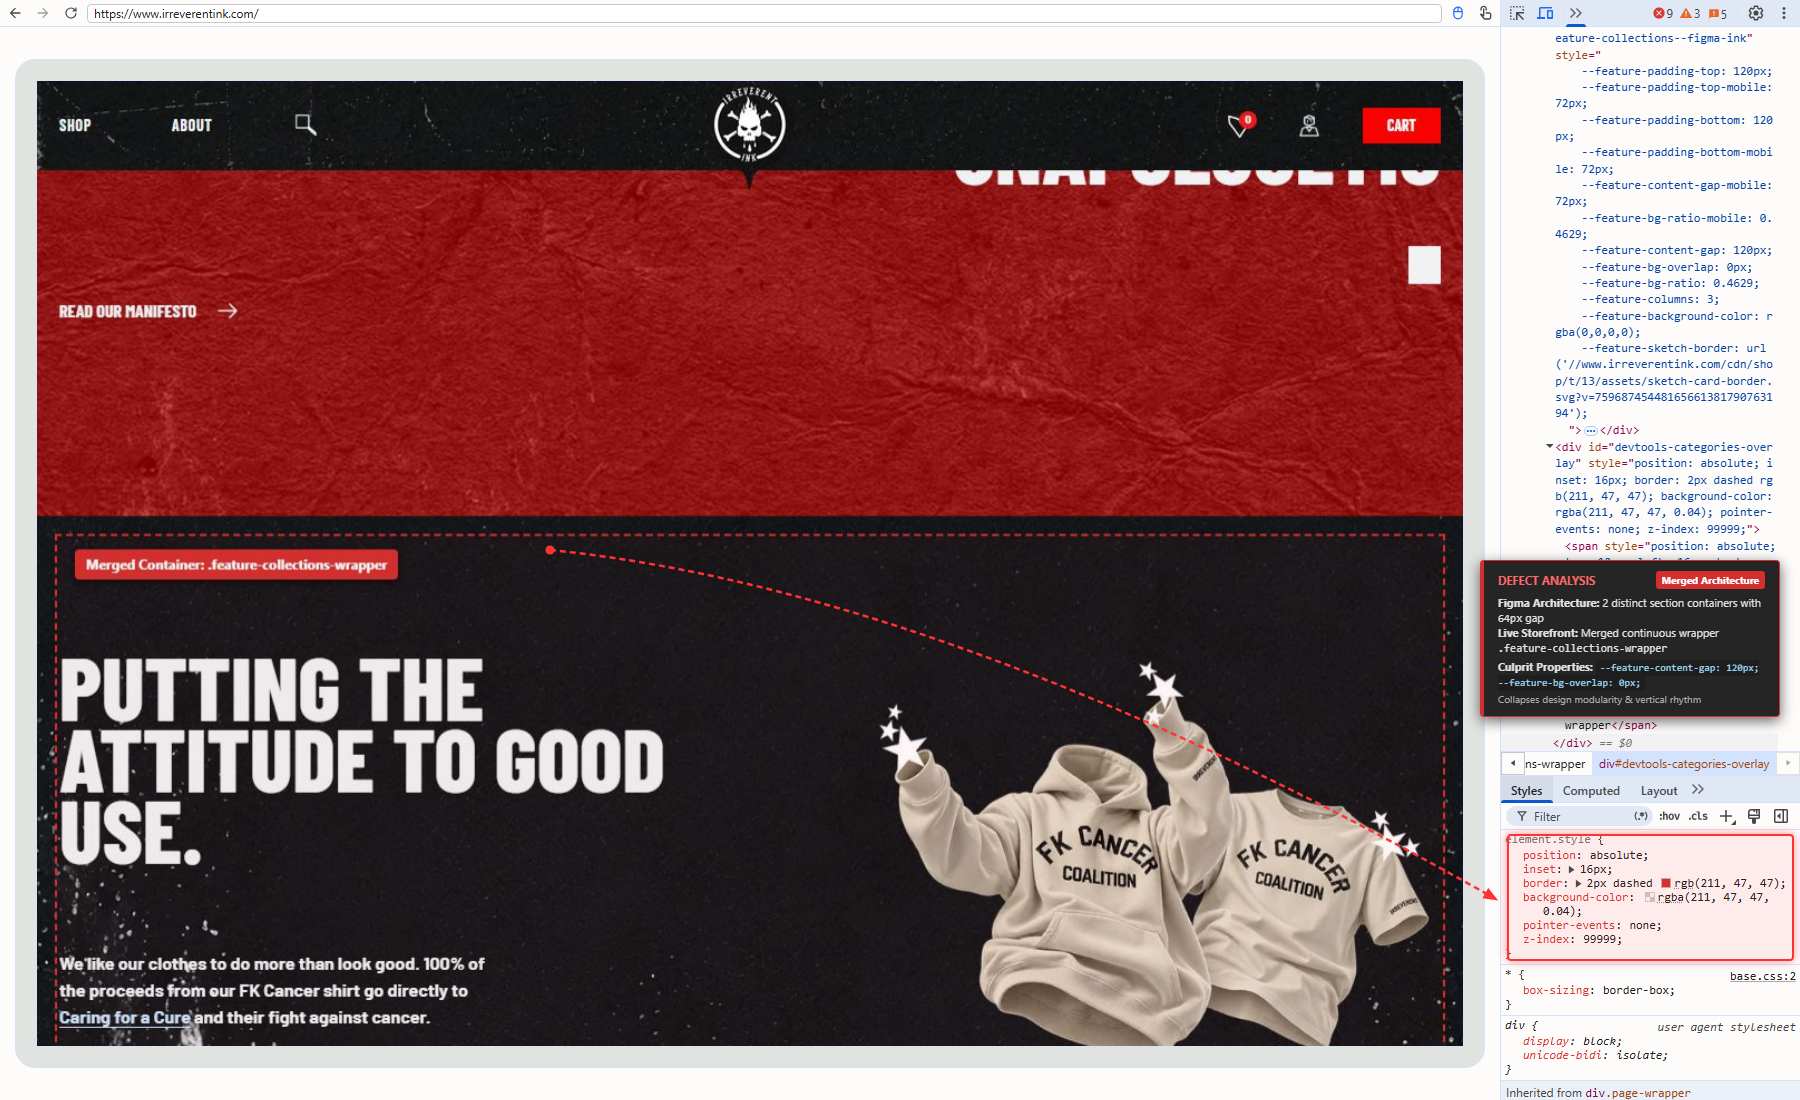
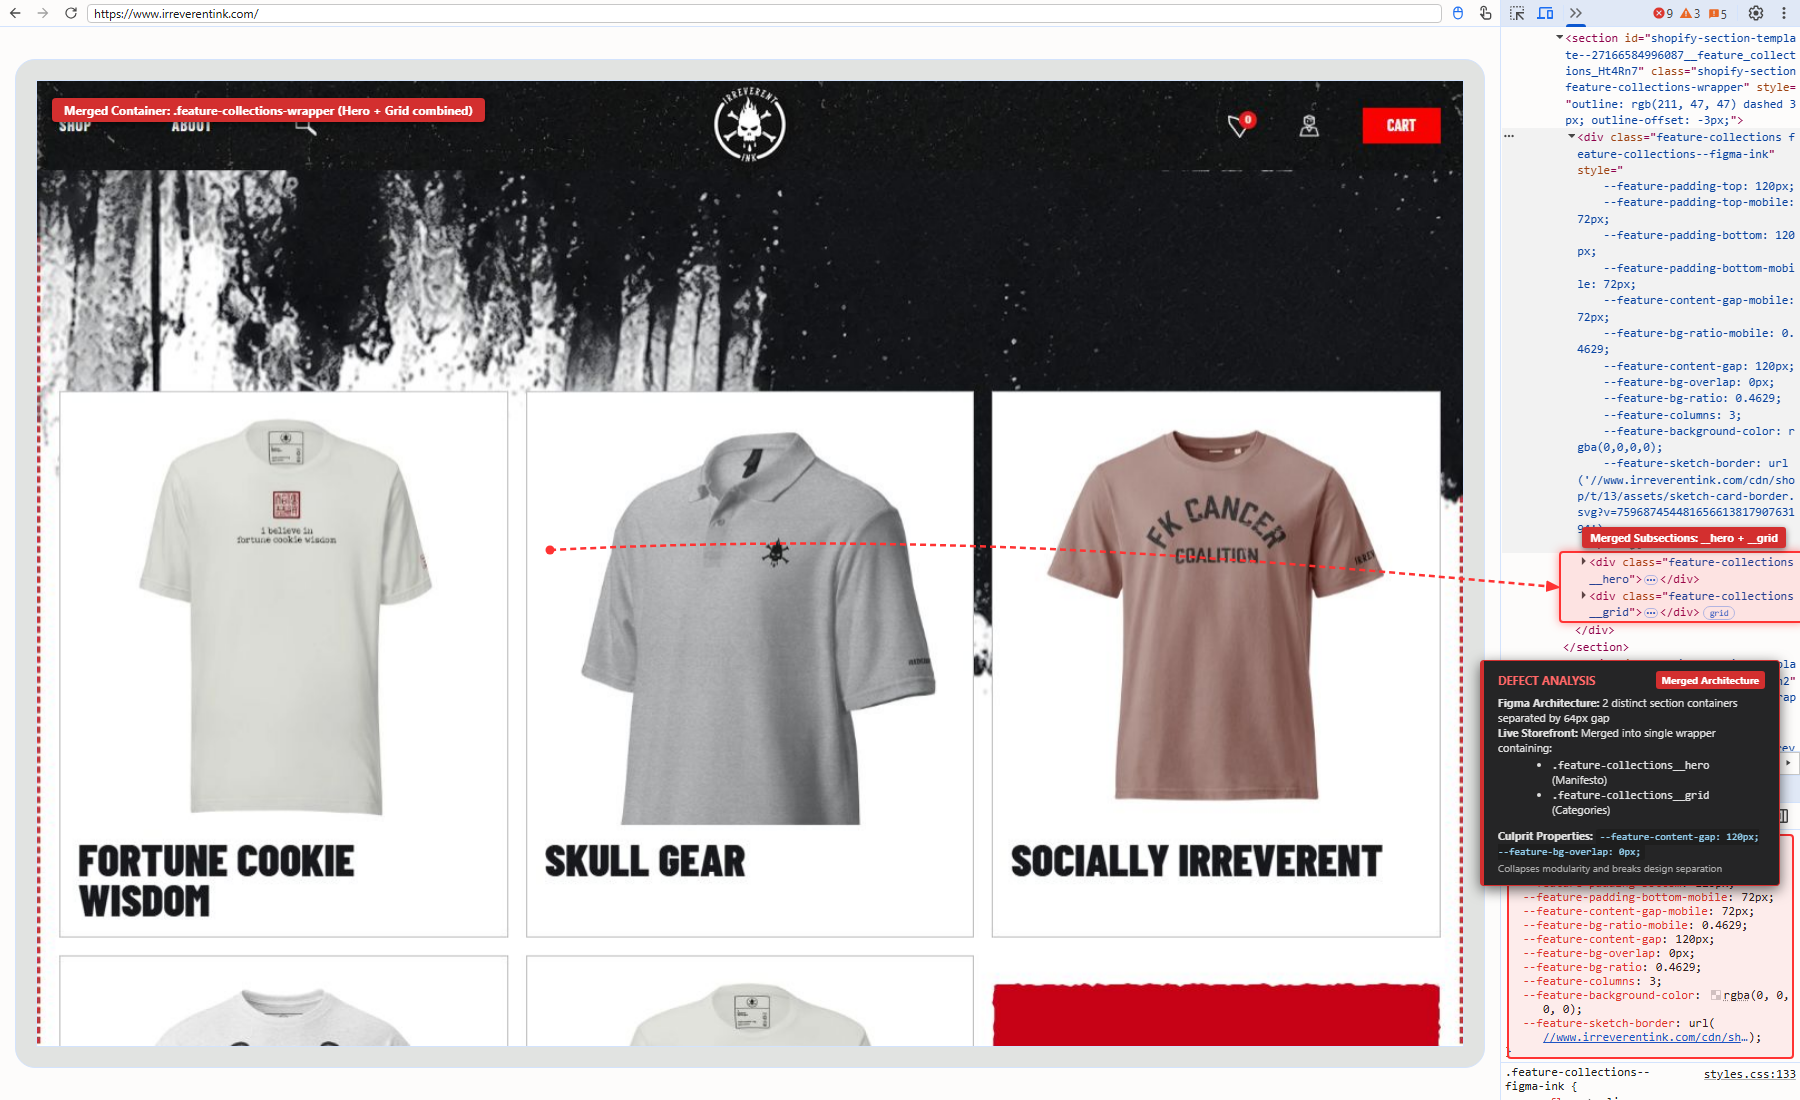
fix(qa-evidence): expand feature-collections__hero and feature-collections__grid subsections in real DevTools DOM tree for Defect 2

diff --git a/scripts/capture-real-chrome-native-devtools.js b/scripts/capture-real-chrome-native-devtools.js
@@ -25,11 +25,22 @@ async function captureAuthenticRealDevToolsDefects() {
   await page.goto('https://www.irreverentink.com/?preview_theme_id=181104476407', { waitUntil: 'domcontentloaded' });
   await page.waitForTimeout(4000);
 
-  // Suppress popups
+  // Suppress popups persistently
   await page.evaluate(() => {
     const s = document.createElement('style');
     s.id = 'suppress-popups';
-    s.innerHTML = '#shopify-pc__banner, .shopify-pc__banner__dialog, #PBarNextFrameWrapper, #preview-bar-iframe { display: none !important; }';
+    s.innerHTML = `
+      #shopify-pc__banner,
+      .shopify-pc__banner__dialog,
+      #PBarNextFrameWrapper,
+      #preview-bar-iframe,
+      .shopify-preview-bar,
+      [aria-label*="cookie" i],
+      [class*="cookie" i] {
+        display: none !important;
+        visibility: hidden !important;
+      }
+    `;
     document.head.appendChild(s);
   });
 
@@ -187,7 +198,7 @@ async function captureAuthenticRealDevToolsDefects() {
     redBox.style.boxShadow = '0 0 10px rgba(255, 51, 51, 0.6)';
     overlay.appendChild(redBox);
 
-    // 2. Comprehensive Root Cause Defect Card (placed cleanly at left edge of DevTools pane, clear of DOM tree)
+    // 2. Comprehensive Root Cause Defect Card
     const defectCard = document.createElement('div');
     defectCard.style.position = 'absolute';
     defectCard.style.left = '1480px';
@@ -202,7 +213,7 @@ async function captureAuthenticRealDevToolsDefects() {
     defectCard.style.fontFamily = '-apple-system, BlinkMacSystemFont, "Segoe UI", Roboto, sans-serif';
     defectCard.style.color = '#e0e0e0';
     defectCard.style.fontSize = '11px';
-    defectCard.style.lineHeight = '1.5';
+    defectCard.lineHeight = '1.5';
 
     defectCard.innerHTML = `
       <div style="display:flex; justify-content:space-between; align-items:center; margin-bottom:6px; font-weight:700; color:#ff6666;">
@@ -241,9 +252,9 @@ async function captureAuthenticRealDevToolsDefects() {
 
   // =========================================================================
   // DEFECT 2: CATEGORIES SECTION ARCHITECTURE MERGE / STYLES VIEW
-  // View: REAL DEVTOOLS STYLES TAB + PREVIEW ARCHITECTURE HIGHLIGHT + ROOT CAUSE CARD
+  // View: REAL DEVTOOLS WITH BOTH HERO & GRID SUBSECTIONS EXPANDED IN DOM TREE
   // =========================================================================
-  console.log('\n--- Capturing Defect 2: Categories with Real DevTools Styles Tab & Root Cause Card ---');
+  console.log('\n--- Capturing Defect 2: Categories with Expanded Subsections in DOM Tree & Styles Tab ---');
 
   // Remove Defect 1 overlay
   await dtPage.evaluate(() => {
@@ -251,7 +262,7 @@ async function captureAuthenticRealDevToolsDefects() {
     if (ov) ov.remove();
   });
 
-  // Scroll live page to categories section and inject clean container boundary highlight on preview
+  // Scroll live page to categories section and highlight outline without injecting DOM children
   await page.evaluate(() => {
     const existingPad = document.getElementById('devtools-padding-overlay');
     if (existingPad) existingPad.remove();
@@ -259,39 +270,8 @@ async function captureAuthenticRealDevToolsDefects() {
     const feat = document.querySelector('section.feature-collections-wrapper');
     if (feat) {
       feat.scrollIntoView({ behavior: 'instant', block: 'center' });
-
-      const existing = document.getElementById('devtools-categories-overlay');
-      if (existing) existing.remove();
-
-      const overlay = document.createElement('div');
-      overlay.id = 'devtools-categories-overlay';
-      overlay.style.position = 'absolute';
-      overlay.style.left = '16px';
-      overlay.style.top = '16px';
-      overlay.style.right = '16px';
-      overlay.style.bottom = '16px';
-      overlay.style.border = '2px dashed #d32f2f';
-      overlay.style.backgroundColor = 'rgba(211, 47, 47, 0.04)';
-      overlay.style.pointerEvents = 'none';
-      overlay.style.zIndex = '99999';
-
-      const tag = document.createElement('span');
-      tag.style.position = 'absolute';
-      tag.style.top = '12px';
-      tag.style.left = '16px';
-      tag.style.background = '#d32f2f';
-      tag.style.color = '#ffffff';
-      tag.style.fontFamily = '-apple-system, BlinkMacSystemFont, "Segoe UI", Roboto, sans-serif';
-      tag.style.fontSize = '12px';
-      tag.style.fontWeight = 'bold';
-      tag.style.padding = '4px 10px';
-      tag.style.borderRadius = '4px';
-      tag.style.boxShadow = '0 2px 4px rgba(0,0,0,0.5)';
-      tag.innerText = 'Merged Container: .feature-collections-wrapper';
-      overlay.appendChild(tag);
-
-      feat.style.position = 'relative';
-      feat.appendChild(overlay);
+      feat.style.outline = '3px dashed #d32f2f';
+      feat.style.outlineOffset = '-3px';
     }
   });
   await dtPage.waitForTimeout(1000);
@@ -309,7 +289,13 @@ async function captureAuthenticRealDevToolsDefects() {
   await dtPage.keyboard.press('ArrowRight');
   await dtPage.waitForTimeout(500);
   await dtPage.keyboard.press('ArrowDown');
-  await dtPage.waitForTimeout(600);
+  await dtPage.waitForTimeout(500);
+
+  // EXPAND <div class="feature-collections..."> TO REVEAL BOTH SUBSECTIONS:
+  // 1. <div class="feature-collections__hero">
+  // 2. <div class="feature-collections__grid">
+  await dtPage.keyboard.press('ArrowRight');
+  await dtPage.waitForTimeout(1000);
 
   // Click Styles Tab via mouse
   const stylesTabCoords = await dtPage.evaluate(() => {
@@ -334,7 +320,9 @@ async function captureAuthenticRealDevToolsDefects() {
   }
   await dtPage.waitForTimeout(2000);
 
-  // Dynamically find coordinates of element.style rules block in DevTools Styles Pane
+  // Dynamically find coordinates for:
+  // 1. The two subsections in the Elements DOM tree (hero & grid)
+  // 2. The element.style block in the Styles Pane
   const defect2Coords = await dtPage.evaluate(() => {
     function queryDeep(root, selector) {
       let matches = Array.from(root.querySelectorAll(selector));
@@ -344,12 +332,22 @@ async function captureAuthenticRealDevToolsDefects() {
       }
       return matches;
     }
+    const nodes = queryDeep(document, '.elements-tree-outline li');
+    const heroNode = nodes.find(n => n.innerText && n.innerText.includes('feature-collections__hero'));
+    const gridNode = nodes.find(n => n.innerText && n.innerText.includes('feature-collections__grid'));
+
     const blocks = queryDeep(document, '.matched-styles .style-pane-wrapper, .styles-section');
     const elStyleBlock = blocks.find(b => b.innerText && b.innerText.includes('element.style'));
-    return { elStyleRect: elStyleBlock ? elStyleBlock.getBoundingClientRect() : null };
-  });
 
-  // Inject QA Defect Card and Arrow for Defect 2
+    return {
+      heroRect: heroNode ? heroNode.getBoundingClientRect() : null,
+      gridRect: gridNode ? gridNode.getBoundingClientRect() : null,
+      elStyleRect: elStyleBlock ? elStyleBlock.getBoundingClientRect() : null
+    };
+  });
+  console.log('Defect 2 Clean DOM Tree and Styles Coords:', defect2Coords);
+
+  // Inject QA Callouts: Highlighting BOTH Hero & Grid in the DOM tree, Styles Pane, and Defect Card
   await dtPage.evaluate((coords) => {
     const existing = document.getElementById('qa-defect-overlay');
     if (existing) existing.remove();
@@ -364,26 +362,72 @@ async function captureAuthenticRealDevToolsDefects() {
     overlay.style.pointerEvents = 'none';
     overlay.style.zIndex = '99999999';
 
-    const sRect = (coords && coords.elStyleRect) ? coords.elStyleRect : { x: 1501, y: 830, width: 299, height: 233 };
+    // 1. Preview Screencast Tag
+    const previewTag = document.createElement('div');
+    previewTag.style.position = 'absolute';
+    previewTag.style.left = '52px';
+    previewTag.style.top = '98px';
+    previewTag.style.background = '#d32f2f';
+    previewTag.style.color = '#ffffff';
+    previewTag.style.fontFamily = '-apple-system, BlinkMacSystemFont, "Segoe UI", Roboto, sans-serif';
+    previewTag.style.fontSize = '12px';
+    previewTag.style.fontWeight = 'bold';
+    previewTag.style.padding = '4px 12px';
+    previewTag.style.borderRadius = '4px';
+    previewTag.style.boxShadow = '0 2px 6px rgba(0,0,0,0.5)';
+    previewTag.innerText = 'Merged Container: .feature-collections-wrapper (Hero + Grid combined)';
+    overlay.appendChild(previewTag);
 
-    // 1. Red highlight around live theme element style variables / gap & architecture
+    // 2. Highlight BOTH Subsections in the Real DevTools Elements Tree
+    const hRect = (coords && coords.heroRect) ? coords.heroRect : { x: 1563, y: 555, width: 237, height: 34 };
+    const gRect = (coords && coords.gridRect) ? coords.gridRect : { x: 1563, y: 588, width: 237, height: 34 };
+
+    const treeHighlight = document.createElement('div');
+    treeHighlight.style.position = 'absolute';
+    treeHighlight.style.left = `${Math.min(hRect.x, gRect.x) - 4}px`;
+    treeHighlight.style.top = `${hRect.y - 2}px`;
+    treeHighlight.style.width = `${Math.max(hRect.width, gRect.width) + 8}px`;
+    treeHighlight.style.height = `${(gRect.y + gRect.height) - hRect.y + 4}px`;
+    treeHighlight.style.border = '2px solid #ff3333';
+    treeHighlight.style.borderRadius = '4px';
+    treeHighlight.style.backgroundColor = 'rgba(255, 51, 51, 0.12)';
+    treeHighlight.style.boxShadow = '0 0 10px rgba(255, 51, 51, 0.5)';
+    overlay.appendChild(treeHighlight);
+
+    // Callout label next to the tree highlight
+    const treeLabel = document.createElement('div');
+    treeLabel.style.position = 'absolute';
+    treeLabel.style.right = '14px';
+    treeLabel.style.top = `${hRect.y - 26}px`;
+    treeLabel.style.background = '#d32f2f';
+    treeLabel.style.color = '#ffffff';
+    treeLabel.style.fontFamily = '-apple-system, BlinkMacSystemFont, "Segoe UI", Roboto, sans-serif';
+    treeLabel.style.fontSize = '11px';
+    treeLabel.style.fontWeight = 'bold';
+    treeLabel.style.padding = '3px 8px';
+    treeLabel.style.borderRadius = '3px';
+    treeLabel.style.boxShadow = '0 2px 6px rgba(0,0,0,0.5)';
+    treeLabel.innerHTML = 'Merged Subsections: __hero + __grid';
+    overlay.appendChild(treeLabel);
+
+    // 3. Highlight Styles Pane variables
+    const sRect = (coords && coords.elStyleRect) ? coords.elStyleRect : { x: 1501, y: 830, width: 299, height: 233 };
     const redBox = document.createElement('div');
     redBox.style.position = 'absolute';
     redBox.style.left = `${sRect.x + 6}px`;
     redBox.style.top = `${sRect.y + 4}px`;
     redBox.style.width = `${sRect.width - 12}px`;
     redBox.style.height = `${sRect.height - 8}px`;
-    redBox.style.border = '2.5px solid #ff3333';
+    redBox.style.border = '2px solid #ff3333';
     redBox.style.borderRadius = '4px';
     redBox.style.backgroundColor = 'rgba(255, 51, 51, 0.08)';
-    redBox.style.boxShadow = '0 0 10px rgba(255, 51, 51, 0.5)';
     overlay.appendChild(redBox);
 
-    // 2. Comprehensive Root Cause Defect Card (placed cleanly at left edge of DevTools pane, clear of DOM tree)
+    // 4. Comprehensive Root Cause Defect Card
     const defectCard = document.createElement('div');
     defectCard.style.position = 'absolute';
     defectCard.style.left = '1480px';
-    defectCard.style.top = '560px';
+    defectCard.style.top = '660px';
     defectCard.style.width = '300px';
     defectCard.style.background = '#252526';
     defectCard.style.border = '1px solid #d32f2f';
@@ -401,14 +445,19 @@ async function captureAuthenticRealDevToolsDefects() {
         <span style="font-size:11.5px;">DEFECT ANALYSIS</span>
         <span style="background:#d32f2f; color:#fff; padding:2px 6px; border-radius:3px; font-size:10px;">Merged Architecture</span>
       </div>
-      <div><strong>Figma Architecture:</strong> 2 distinct section containers with <code>64px</code> gap</div>
-      <div><strong>Live Storefront:</strong> Merged continuous wrapper <code>.feature-collections-wrapper</code></div>
+      <div><strong>Figma Architecture:</strong> 2 distinct section containers separated by <code>64px</code> gap</div>
+      <div><strong>Live Storefront:</strong> Merged into single wrapper containing:
+        <ul style="margin-left:14px; margin-top:2px;">
+          <li><code>.feature-collections__hero</code> (Manifesto)</li>
+          <li><code>.feature-collections__grid</code> (Categories)</li>
+        </ul>
+      </div>
       <div style="margin-top:4px;"><strong>Culprit Properties:</strong> <code style="background:#1e1e1e; color:#9cdcfe; padding:2px 4px; border-radius:3px; font-size:10px;">--feature-content-gap: 120px; --feature-bg-overlap: 0px;</code></div>
-      <div style="color:#aaa; font-size:10px; margin-top:3px;">Collapses design modularity & vertical rhythm</div>
+      <div style="color:#aaa; font-size:10px; margin-top:3px;">Collapses modularity and breaks design separation</div>
     `;
     overlay.appendChild(defectCard);
 
-    // 3. Red Arrow starting from preview section (x: 550, y: 550) pointing directly to Styles pane
+    // 5. Red Pointer Arrow from preview container directly to the merged tree nodes
     const svg = document.createElementNS('http://www.w3.org/2000/svg', 'svg');
     svg.setAttribute('style', 'position: absolute; top: 0; left: 0; width: 100vw; height: 100vh;');
     svg.innerHTML = `
@@ -418,7 +467,7 @@ async function captureAuthenticRealDevToolsDefects() {
         </marker>
       </defs>
       <circle cx="550" cy="550" r="4.5" fill="#ff3333" />
-      <path d="M 550 550 C 850 580, 1180 720, ${sRect.x - 8} ${sRect.y + sRect.height / 2}" fill="none" stroke="#ff3333" stroke-width="2.5" stroke-dasharray="6,4" marker-end="url(#qa-arrow-2)" />
+      <path d="M 550 550 C 950 530, 1250 560, ${hRect.x - 8} ${hRect.y + (gRect.y + gRect.height - hRect.y) / 2}" fill="none" stroke="#ff3333" stroke-width="2.5" stroke-dasharray="6,4" marker-end="url(#qa-arrow-2)" />
     `;
     overlay.appendChild(svg);
 
